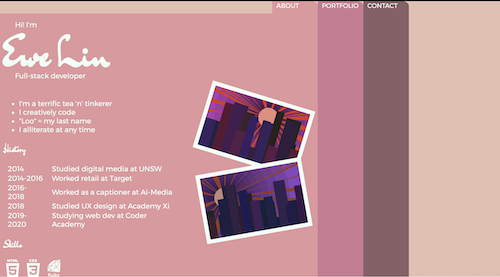
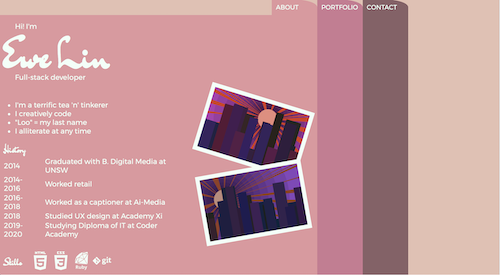
Add details of design process

diff --git a/src/css/style.css b/src/css/style.css
@@ -173,6 +173,7 @@ table {
 #skills-icons i {
     font-size: 3em;
     color: #F4FFF8;
+    margin: 10px 0;
 }
 
 #city0 {

diff --git a/README.md b/README.md
@@ -23,15 +23,15 @@ This portfolio is contained entirely within one web page as seen in this [this](
 
 #### Desktop
 
-![Portfolio desktop screenshot](/docs/desktop.png)
+![Portfolio desktop screenshot](docs/desktop.png)
 
 #### Tablet
 
-![Portfolio tablet screenshot](/docs/tablet.png)
+![Portfolio tablet screenshot](docs/tablet.png)
 
 #### Mobile
 
-![Portfolio tablet mobile](/docs/mobile.png)
+![Portfolio tablet mobile](docs/mobile.png)
 
 ### Target Audience
 
@@ -51,17 +51,54 @@ This project was built with:
 
 The first thing I did was start a Trello board that would be added to and editted throughout the design and coding processes. At the moment of writing, this is what it looks like:
 
-![Near completed Trello board](/docs/trello.png)
+![Near completed Trello board](docs/trello.png)
 
 I then went to Pinterest to start collecting inspirational images for my mood board. I kept my coded art at the back of my mind as I knew I wanted to use them as decorations.
 
-![Pinterest mood board top](/docs/pinterest1.png)
+![Pinterest mood board top](docs/pinterest1.png)
 
-![Pinterest mood board bottom](/docs/pinterest.png)
+![Pinterest mood board bottom](docs/pinterest.png)
 
- d
+ At the same time, I played around with the colour scheme generator at [coolors.co](coolors.co). The palette I ended up using was this one:
+
+![Coolors pink scheme](docs/colours.png)
+
+Once I had the mood board and colour scheme, I felt that a calligraphic script would bring character to the aesthetics of my portfolio. I relied on Google Fonts to suggest a sans serif font that I could pair it with. The calligraphic font I chose is called "Dr Sugiyama" whilst the sans serif font I chose is called "Montserrat".
+
+![Website fonts](docs/fonts.png)
+
+I then came up with the idea of building a navigation system that relied on the JavaScript `onclick` function and z-index. [This](https://codepen.io/nyrnzn/pen/jVyZbE) CodePen showed me that what I had in mind was doable. I felt that this unique navigation would give my website design some originality.
+
+### Wireframes
+
+These original wireframes I came up with vary compared to the final product. 
+
+In the "About" wireframes, the content has been reduced to a list rather than a paragraph of text. This should allow viewers to quickly scan the page and get an idea of my personality, rather than having them read through more dense text. The quote on the side has also been hidden behind the "About" section instead of showing on the side.
+
+![About wireframes](docs/Main.png)
+
+In the "Portfolio" wireframe, the orientation of the quote has been changed from horizontal to vertical so that it can be read normally. In addition, the navbar of the mobile version is not fixed to the top. 
+
+![Portfolio wireframes](docs/Portfolio.png)
+
+In the "Contact" page, the contact form in the wireframe has been removed and replaced with a text version of my email address. The location of the social media buttons has also been moved to a more central location
+
+![Contact wireframes](docs/Contact.png)
+
+### Usability Considerations
+
+There were a few usability considerations to note:
+
+1. The desktop layout and navigation would not be suitable for the tablet or mobile versions. This is because users are able to switch sections by clicking on the colour of that section. On mobile or tablet, they may accidentally tap on the coloured portion of a different section and switch  to that section. Additionally, this would make it more difficult for users to scroll down and up the page - particularly if they are right-handed.
+2. The navbar is not fixed to the top of the screen. This is unnecessary as the desktop section has minimal vertical scrolling and using a mobile / tablet to scroll back up to the navigation is quick and easy.
+3. The original contact form included in the wireframe has been removed from the final design. This is because the form would have relied on a `mailto` link, which would only work correctly if the user had adjusted the browser settings appropriately.
+4. The social media icons on the tablet / mobile versions have been contained within the contact section rather than having them in a fixed position. This allows for more content space on smaller screens.
+
+## Project plan & timeline
 
 ## Short Answer Questions
+
+
 
 **Describe key events in the development of the internet from the 1980s to today (max. 150 words)**
 
